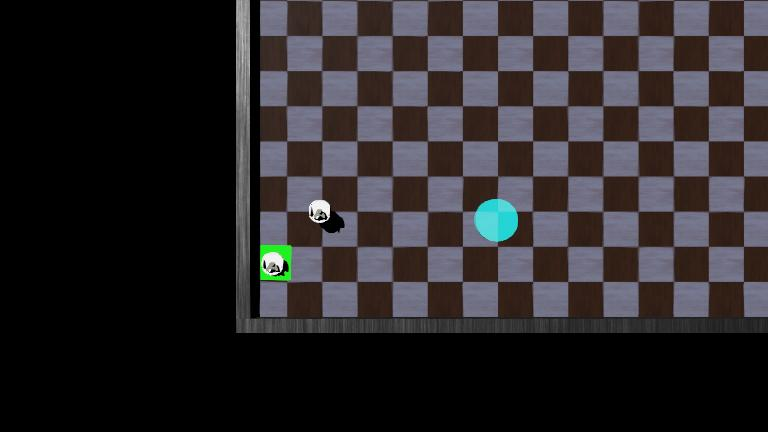
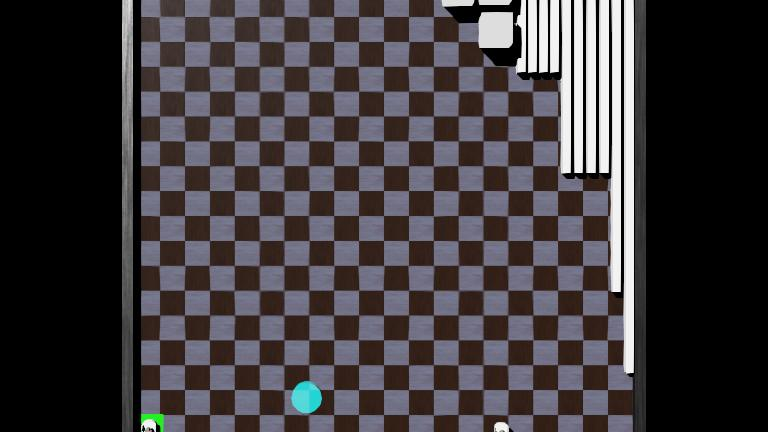
mapeo multiagente

diff --git a/Webots/controllers/Supervisor_Mundo/Supervisor_Mundo.py b/Webots/controllers/Supervisor_Mundo/Supervisor_Mundo.py
@@ -4,6 +4,7 @@
 #  from controller import Robot, Motor, DistanceSensor
 from controller import Supervisor, Receiver, Emitter
 import numpy as np
+import matplotlib.pyplot as plt
 
 
 
@@ -42,7 +43,7 @@ cant_cajas = 3
 cant_checkpoints = 1
 
 modo = 1 # 0 Obtener datos, 1 colocar paredes, 2 pruebas
-mapa = 2 # 0 no cambia mapa, 1 pruebas de algoritmos, 2 validación
+mapa = 1 # 0 no cambia mapa, 1 pruebas de algoritmos, 2 validación
 # -'-'-'-'-'-'-'-'-'-'-'-'-'-'-'-'- Obtener objetos del mundo -'-'-'-'-'-'-'-'-'-'-'-'-'-'-'-'-
 # Paredes
 for dsnumber in range(cant_paredes):
@@ -360,16 +361,56 @@ elif modo == 1:
     # -'-'-'-'-'-'-'-'-'-'-'-'-'-'-'-'-'-'-'-'-'-'-'-'-'-'-'-'-'-'-'-'-'-'-'-'-'-'-'-'-'-'-'-'-'-'-
 
     # -'-'-'-'-'-'-'-'-'-'-'-'-'-'-'-'-'-'-'-'-'-'-'-'-'-'-'-'-'-'-'-'-'-'-'-'-'-'-'-'-'-'-'-'-'-'-
+datos_recibidos = []
+puntos_mapa = []  # contiene los puntos recolectados por cada vehiculo, x e y juntos. lista tipo string
+
+puntos_mapa_x = [] # contiene las coordenadas x del mapa recolectado por todos los vehiculos. lista
+                   # tipo punto flotante
+puntos_mapa_y = [] # contiene las coordenadas y del mapa recolectado por todos los vehiculos. Lista
+                   # tipo punto flotante
 
 
 while robot.step(timestep) != -1:
 
     if receiver.getQueueLength() > 0:
-        data = receiver.getString()
-        print(data)
+        data = receiver.getString().split()  # lectura de datos enviado por los vehiculos
+        
+        
+        desfase_x = data.pop(0) 
+        desfase_y = data.pop(0)
+        
+        desfase_x = float(desfase_x)
+        desfase_y = float(desfase_y)
+           
+
+        puntos_mapa = [float(x) for x in data]
+
+        cant_puntos_mapa = len(puntos_mapa) // 2
+
+        puntos_mapa_x.extend([(desfase_x + x) for x in puntos_mapa[:cant_puntos_mapa]])
+        puntos_mapa_y.extend([(desfase_y + y) for y in puntos_mapa[cant_puntos_mapa:]])
+
+        print("Cantidad de puntos x (supervisor de mundo): ", len(puntos_mapa_x))
+
         receiver.nextPacket()
         #------ Enviar datos a robot ----
         data = str(Checkpoints[0].getPosition())
         emitter.send(data.encode())
    
+
+        # graficar mapa de datos recibidos
+        
+        plt.plot((puntos_mapa_x),(puntos_mapa_y),'o',color = 'red')
+        plt.axhline(0, color='black',linewidth=0.5)
+        plt.axvline(0, color='black',linewidth=0.5)
+
+        
+        plt.xlabel('X')
+        plt.ylabel('Y')
+        plt.title('Mapa obtenido por todos los vehiculos')
+        plt.xlim(0,5)
+        plt.ylim(0,5)
+        plt.grid(True)
+        
+        plt.show()
 

diff --git a/Webots/controllers/Controlador_VD/Controlador_VD.py b/Webots/controllers/Controlador_VD/Controlador_VD.py
@@ -182,7 +182,7 @@ Odometria.Odometria_Init(Agente_1)
 
 Explorar.Rutina_Inicio(Agente_1)
 
-tiempos = [10] # minutos4n
+tiempos = [8] # minutos4n
 u = 0
 while Agente_1.step(Agente_1.timestep) != -1:
     Agente_1.DatosSensores()
@@ -193,7 +193,30 @@ while Agente_1.step(Agente_1.timestep) != -1:
 
     if Agente_1.getTime() >= tiempos[u]*60:
         #------ Enviar datos a supervisor ----
-        data = "Robot: Hola"
+        #data = "Robot: Hola"
+        T_Exploracion_x_str = ' '.join(map(str, Agente_1.Pared_x_ds0))
+        T_Exploracion_y_str = ' '.join(map(str, Agente_1.Pared_y_ds0))  
+        
+        T_Exploracion_x_str =T_Exploracion_x_str+' '+ ' '.join(map(str, Agente_1.Pared_x_ds1))
+        T_Exploracion_y_str =T_Exploracion_y_str+' '+ ' '.join(map(str, Agente_1.Pared_y_ds1))  
+        
+        T_Exploracion_x_str =T_Exploracion_x_str+' '+ ' '.join(map(str, Agente_1.Pared_x_ds2))
+        T_Exploracion_y_str =T_Exploracion_y_str+' '+ ' '.join(map(str, Agente_1.Pared_y_ds2))
+
+        T_Exploracion_x_str =T_Exploracion_x_str+' '+ ' '.join(map(str, Agente_1.Pared_x_ds3))
+        T_Exploracion_y_str =T_Exploracion_y_str+' '+ ' '.join(map(str, Agente_1.Pared_y_ds3))
+
+        T_Exploracion_x_str =T_Exploracion_x_str+' '+ ' '.join(map(str, Agente_1.Pared_x_ds4))
+        T_Exploracion_y_str =T_Exploracion_y_str+' '+ ' '.join(map(str, Agente_1.Pared_y_ds4))
+
+        T_Exploracion_x_str =T_Exploracion_x_str+' '+ ' '.join(map(str, Agente_1.Pared_x_ds5))
+        T_Exploracion_y_str =T_Exploracion_y_str+' '+ ' '.join(map(str, Agente_1.Pared_y_ds5))
+
+        desfase_x =  str(Agente_1.T_Exploracion_GPS_x[0])
+        desfase_y =  str(Agente_1.T_Exploracion_GPS_y[0])
+
+        print("cantidad de puntos (controlador de vehiculo): ", len(Agente_1.Pared_x_ds0),"  ",len(Agente_1.Pared_x_ds0)*2)
+        data =   desfase_x+ ' ' +desfase_y+ ' ' + T_Exploracion_x_str + ' '+ T_Exploracion_y_str
         emitter.send(data.encode())
 
         datos_obtenidos = False
